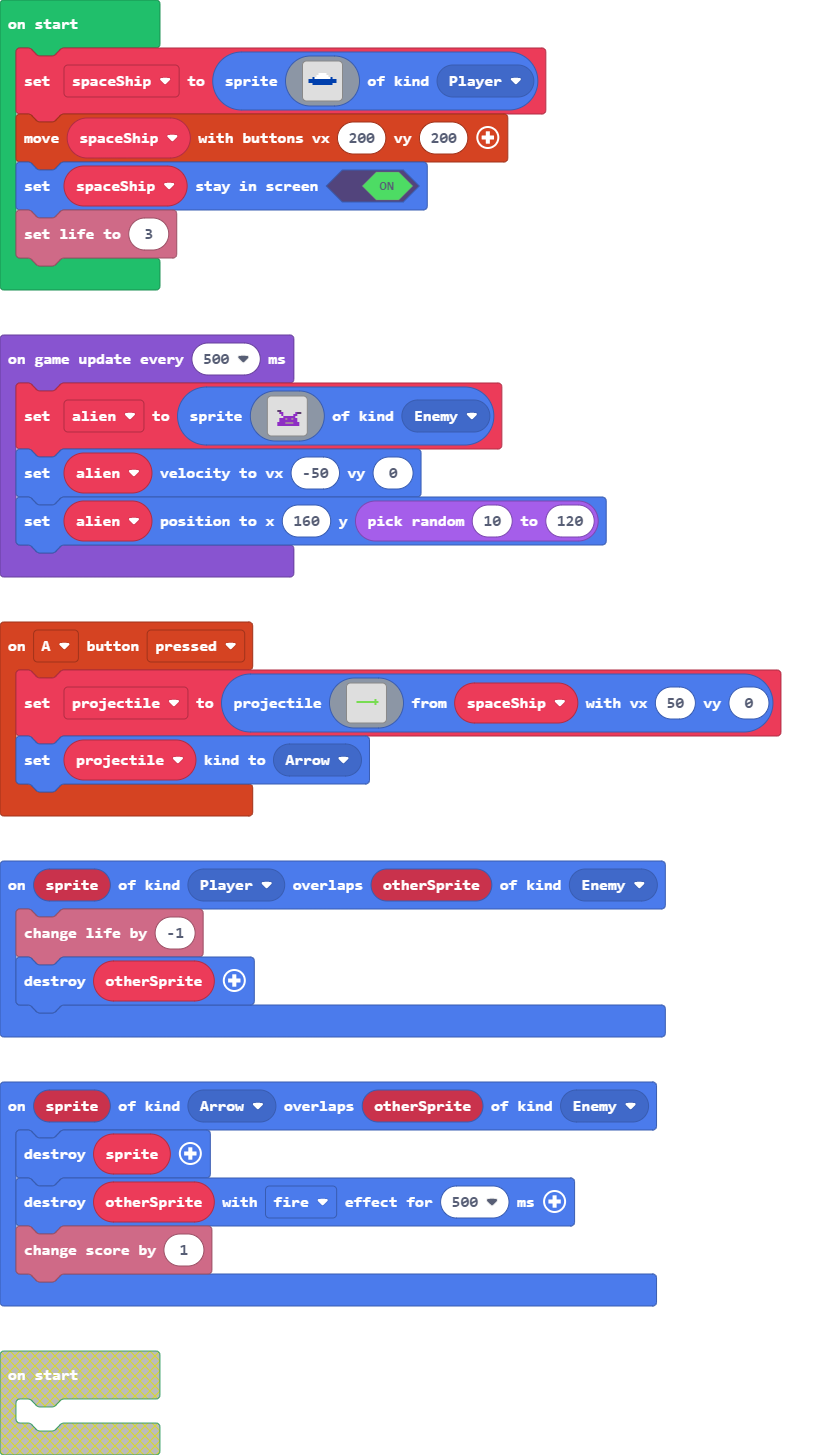
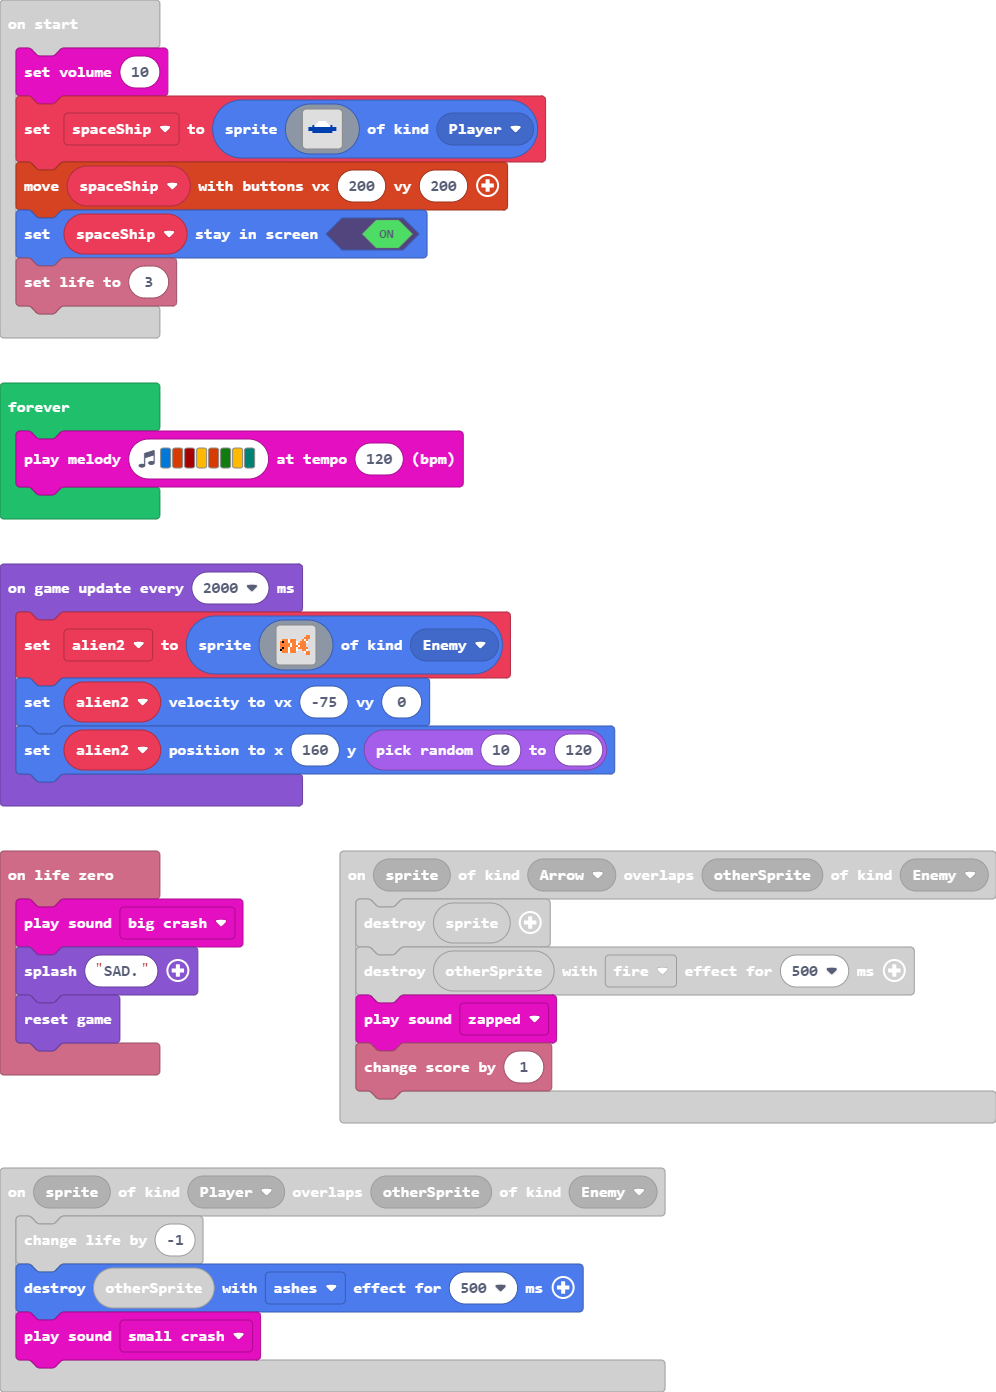
finished

diff --git a/main.ts b/main.ts
@@ -25,15 +25,24 @@ controller.A.onEvent(ControllerButtonEvent.Pressed, function () {
 sprites.onOverlap(SpriteKind.Arrow, SpriteKind.Enemy, function (sprite, otherSprite) {
     sprite.destroy()
     otherSprite.destroy(effects.fire, 500)
+    music.zapped.play()
     info.changeScoreBy(1)
+})
+info.onLifeZero(function () {
+    music.bigCrash.play()
+    game.splash("SAD.")
+    game.reset()
 })
 sprites.onOverlap(SpriteKind.Player, SpriteKind.Enemy, function (sprite, otherSprite) {
     info.changeLifeBy(-1)
-    otherSprite.destroy()
+    otherSprite.destroy(effects.ashes, 500)
+    music.smallCrash.play()
 })
 let alien: Sprite = null
+let alien2: Sprite = null
 let projectile: Sprite = null
 let spaceShip: Sprite = null
+music.setVolume(10)
 spaceShip = sprites.create(img`
     . . . . . . . . . . . . . . . . 
     . . . . . . . . . . . . . . . . 
@@ -55,6 +64,31 @@ spaceShip = sprites.create(img`
 controller.moveSprite(spaceShip, 200, 200)
 spaceShip.setStayInScreen(true)
 info.setLife(3)
+game.onUpdateInterval(2000, function () {
+    alien2 = sprites.create(img`
+        . . . . . . . . . . . . . . . . 
+        . . . . . . . . . . . . . . . . 
+        . . . . . . . . . . . . . . . . 
+        . . . . . . . . . . . . . 4 4 . 
+        . . . . . . . . . . . . 4 4 4 . 
+        . 4 4 4 1 4 4 4 . . . 4 1 4 . . 
+        4 f 4 4 1 4 4 4 1 . 4 4 4 1 . . 
+        4 4 4 4 4 1 4 4 1 4 4 4 4 . . . 
+        4 4 4 4 4 1 4 4 4 1 4 4 4 . . . 
+        4 f 4 4 1 4 4 4 1 4 4 4 4 4 . . 
+        f 4 4 4 1 4 4 4 1 . . 4 4 1 . . 
+        . 4 4 4 1 4 4 4 . . . . 1 4 4 . 
+        . . . . . . . . . . . . . 4 4 . 
+        . . . . . . . . . . . . . . . . 
+        . . . . . . . . . . . . . . . . 
+        . . . . . . . . . . . . . . . . 
+        `, SpriteKind.Enemy)
+    alien2.setVelocity(-75, 0)
+    alien2.setPosition(160, randint(10, 120))
+})
+forever(function () {
+    music.playMelody("E B C5 A B G A F ", 120)
+})
 game.onUpdateInterval(500, function () {
     alien = sprites.create(img`
         . . . . . . . . . . . . . . . . 
